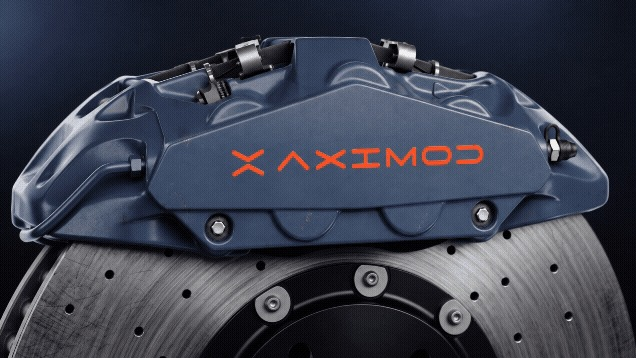
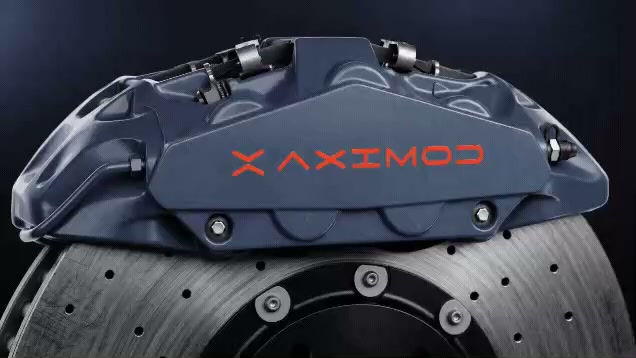
some updates

diff --git a/src/lib/case-image.ts b/src/lib/case-image.ts
@@ -1,9 +1,9 @@
 /** Must match `images.deviceSizes` in next.config.js (unknown widths are rejected). */
-const CASE_IMAGE_WIDTHS = [640, 828, 1080, 1200, 1920] as const;
+const CASE_IMAGE_WIDTHS = [640, 828, 1080, 1200, 1920, 2560] as const;
 
-const CASE_IMAGE_DEFAULT_WIDTH = 1080;
-const LIGHTBOX_IMAGE_WIDTH = 1920;
-const CASE_IMAGE_QUALITY = 75;
+const CASE_IMAGE_DEFAULT_WIDTH = 1920;
+const LIGHTBOX_IMAGE_WIDTH = 2560;
+const CASE_IMAGE_QUALITY = 90;
 
 export function isCaseGif(src: string): boolean {
   return /\.gif($|\?)/i.test(src);

diff --git a/src/i18n/cases/home-hub.ts b/src/i18n/cases/home-hub.ts
@@ -5,7 +5,6 @@ import { applyGalleryCaptionMap } from "./localize-gallery-captions";
 const media = (name: string) => `/assets/cases/home-hub/${name}`;
 
 const homeHubMedia = [
-  "media/home-hub/cover.mp4",
   "media/home-hub/01.jpg",
   "media/home-hub/02.jpg",
   "media/home-hub/03.jpg",
@@ -409,7 +408,7 @@ export const homeHubShared = {
     manifestoFg: "#E9D3BB",
     manifestoEm: "#C7C5A7",
   },
-  body: `[VID: media/home-hub/cover.mp4]`,
+  body: `[IMG: media/home-hub/01.jpg]`,
 };
 
 export const homeHubCopy: Record<

diff --git a/src/i18n/cases/aximod.ts b/src/i18n/cases/aximod.ts
@@ -5,7 +5,6 @@ import { applyGalleryCaptionMap } from "./localize-gallery-captions";
 const m = (file: string) => `/assets/cases/aximod/${file}`;
 
 const aximodMedia = [
-  "media/aximod/cover.mp4",
   "media/aximod/01.jpg",
   "media/aximod/02.jpg",
   "media/aximod/03.jpg",
@@ -426,7 +425,7 @@ export const aximodShared = {
     manifestoFg: "#FFFFFF",
     manifestoEm: "#FF3900",
   },
-  body: `[VID: media/aximod/cover.mp4]`,
+  body: `[IMG: media/aximod/01.jpg]`,
 };
 
 export const aximodCopy: Record<

diff --git a/next.config.js b/next.config.js
@@ -10,9 +10,9 @@ const nextConfig = {
   images: {
     // WebP only: AVIF encode is too slow on small VPS and caused multi-second waits.
     formats: ["image/webp"],
-    qualities: [75, 80],
+    qualities: [75, 80, 90],
     minimumCacheTTL: 60 * 60 * 24 * 365,
-    deviceSizes: [384, 640, 750, 828, 1080, 1200, 1920],
+    deviceSizes: [384, 640, 750, 828, 1080, 1200, 1920, 2560],
     imageSizes: [16, 32, 48, 64, 96, 128, 256, 384],
   },
   async redirects() {
